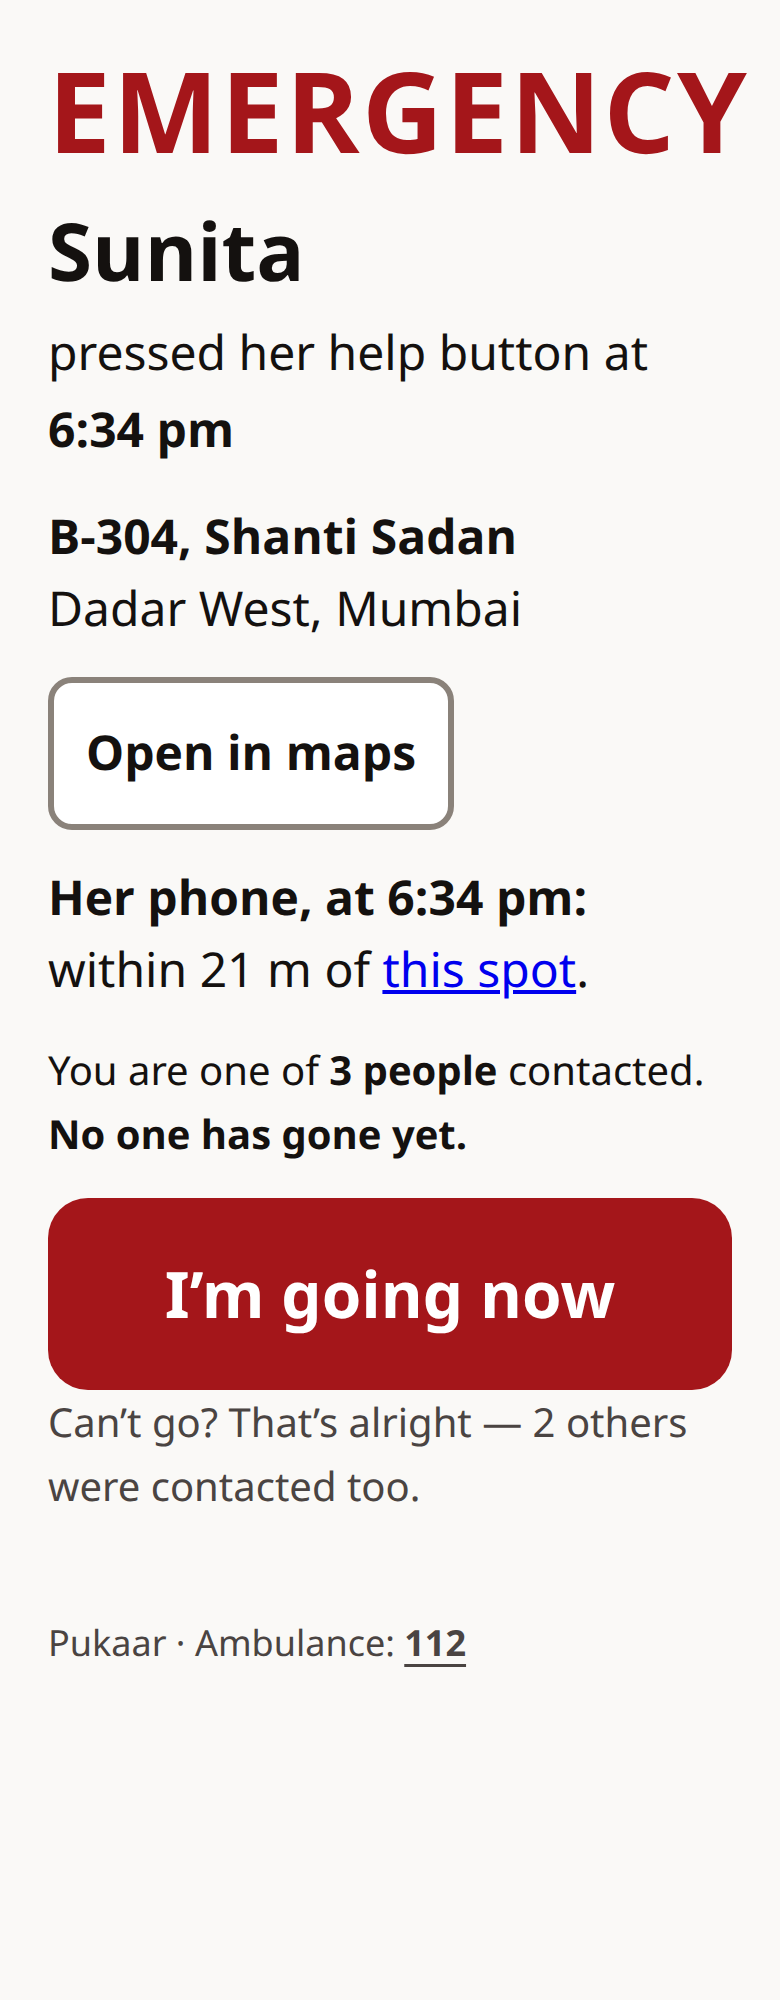
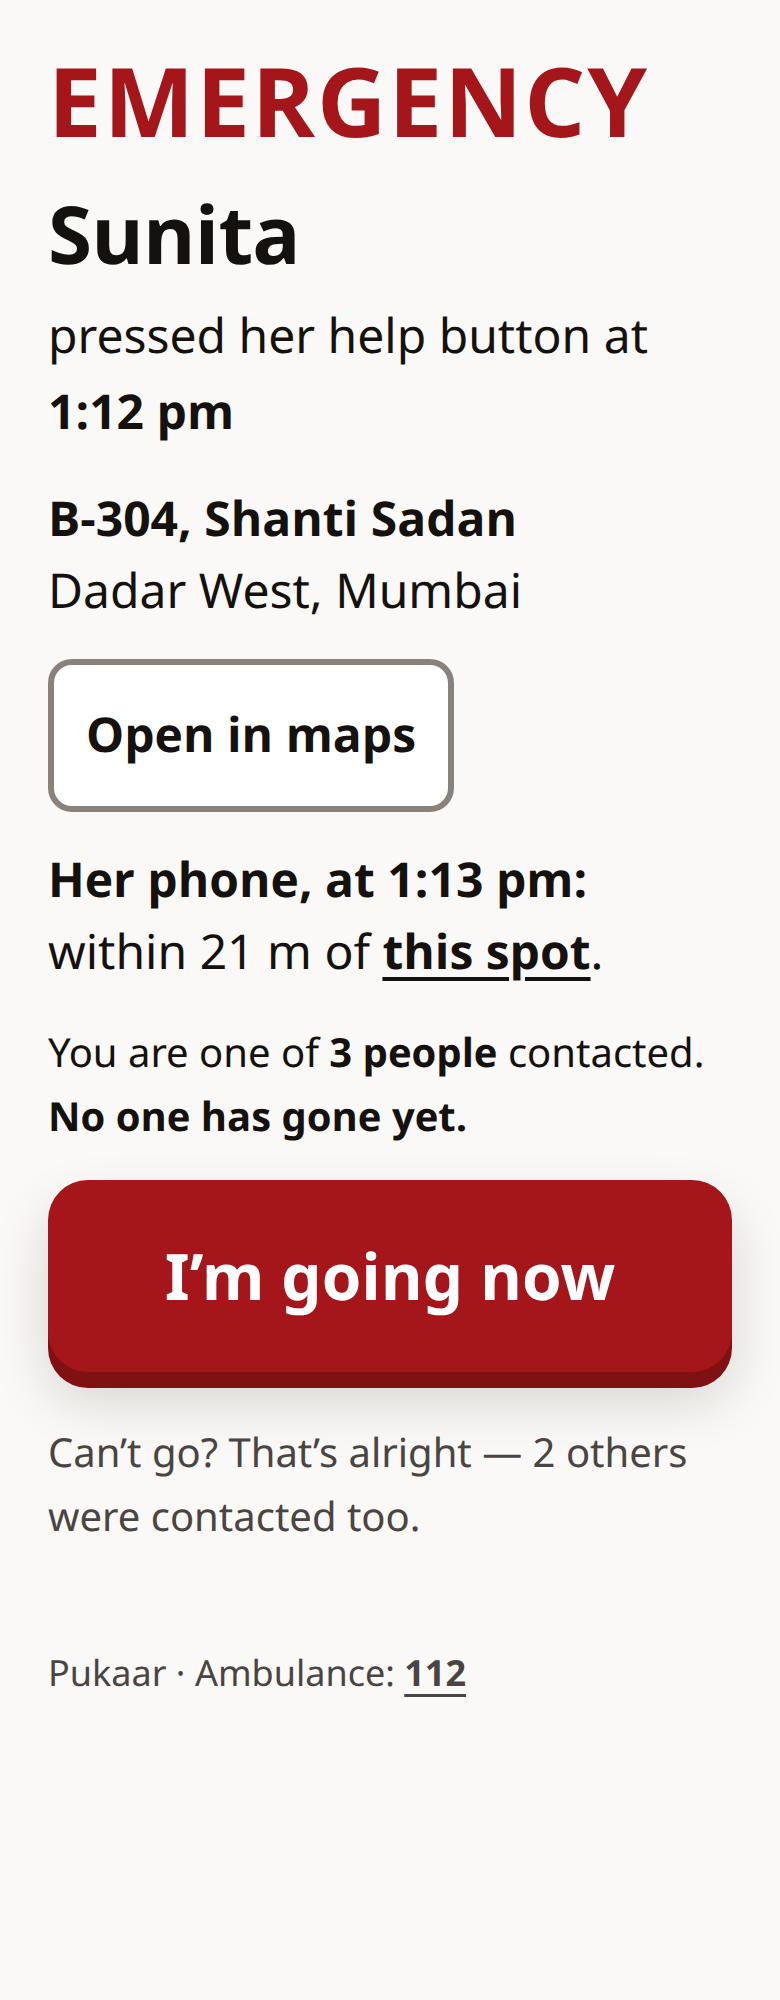
The pages, a design pass: the button has an edge and goes down, a breathing dot while she waits, the timeline is a rail, links look like the page; thirteen screens re-taken from real alerts; rule 11

diff --git a/lambdas/web.py b/lambdas/web.py
@@ -813,7 +813,8 @@ STYLE = """
   --emergency: #A4161A; --on-emergency: #FFFFFF; --emergency-active: #7F1113;
   --safe: #14532D; --safe-bg: #E4F2E8; --caution: #7A4106; --caution-bg: #FDF1E0; --over: #55504D;
   --text-xs: 16px; --text-sm: 18px; --text-base: 20px; --text-lg: 24px; --text-xl: 32px;
-  --text-2xl: 40px; --text-3xl: 56px; --text-action: 44px;
+  --text-2xl: 40px; --text-3xl: 48px; --text-action: 44px;
+  --edge: 8px; --shadow: 0 14px 28px rgba(20, 17, 15, 0.16);
   --space-3: 12px; --space-4: 16px; --space-6: 24px; --space-8: 32px; --space-12: 48px;
   --radius: 12px; --radius-btn: 20px; --target-min: 64px;
 }
@@ -824,7 +825,7 @@ html { background: var(--bg); color: var(--ink); color-scheme: only light;
   font-size: var(--text-base); line-height: 1.6; }
 body { margin: 0; padding: var(--space-6); max-width: 36rem; margin-inline: auto; }
 @media (max-width: 360px) { body { padding: var(--space-4); } }
-h1 { font-size: var(--text-2xl); line-height: 1.2; font-weight: 700; margin: 0 0 var(--space-6); }
+h1 { font-size: var(--text-2xl); line-height: 1.2; font-weight: 700; letter-spacing: -0.01em; margin: 0 0 var(--space-6); }
 h2 { font-size: var(--text-xl); line-height: 1.3; font-weight: 700; margin: 0 0 var(--space-4); }
 h1, h2 { text-wrap: balance; }
 #sent h1 { font-size: var(--text-xl); }
@@ -834,14 +835,18 @@ p { margin: 0 0 var(--space-4); }
 .btn { display: block; width: 100%; min-height: var(--target-min); border: 0; cursor: pointer;
   font: inherit; font-weight: 700; border-radius: var(--radius); padding: var(--space-4); }
 .btn:focus-visible { outline: 4px solid var(--ink); outline-offset: 3px; }
-.btn-emergency { min-height: 240px; font-size: var(--text-action); line-height: 1.15;
+.btn-emergency { min-height: max(240px, 36vh); font-size: var(--text-action); line-height: 1.15;
   letter-spacing: 0.02em; text-transform: uppercase; border-radius: var(--radius-btn);
-  background: var(--emergency); color: var(--on-emergency); }
-.btn-emergency:active { background: var(--emergency-active); transform: scale(0.985); }
-.btn:active { transform: scale(0.985); }
-.btn-emergency[disabled] { background: var(--border); cursor: not-allowed; }
+  background: var(--emergency); color: var(--on-emergency);
+  box-shadow: 0 var(--edge) 0 var(--emergency-active), var(--shadow); }
+/* The button has an edge, like a thing that can be pressed: the finger sees it go down. */
+.btn-emergency:active, .btn-safe:active { transform: translateY(var(--edge)); box-shadow: 0 0 0 var(--emergency-active), 0 4px 10px rgba(20, 17, 15, 0.16); }
+.btn-emergency:active { background: var(--emergency-active); }
+.btn { transition: transform 0.06s ease-out, box-shadow 0.06s ease-out; }
+.btn-secondary:active { transform: translateY(2px); }
+.btn-emergency[disabled] { background: var(--border); box-shadow: none; cursor: not-allowed; }
 main a.btn-emergency { display: flex; align-items: center; justify-content: center; text-align: center;
-  text-decoration: none; color: var(--on-emergency); min-height: 240px; line-height: 1.15; padding: var(--space-4); margin: 0; }  /* the tel: rule below would shrink and recolour it */
+  text-decoration: none; color: var(--on-emergency); min-height: max(240px, 36vh); line-height: 1.15; padding: var(--space-4); margin: 0; }  /* the tel: rule below would shrink and recolour it */
 .btn-secondary[disabled] { color: var(--ink-muted); cursor: not-allowed; }
 @media (hover: hover) {
   .btn-emergency:hover:not([disabled]) { background: var(--emergency-active); }
@@ -855,18 +860,24 @@ main a.btn-emergency { display: flex; align-items: center; justify-content: cent
 .card-emergency { background: var(--surface); border: 3px solid var(--emergency); color: var(--emergency); }
 .banner { font-size: var(--text-3xl); line-height: 1.1; font-weight: 700; letter-spacing: 0.02em;
   color: var(--emergency); margin: 0 0 var(--space-4); }
-.timeline { list-style: none; padding: 0; margin: 0; }
-.timeline li { display: grid; grid-template-columns: 7.5rem 1fr; gap: var(--space-4); padding: var(--space-3) 0;
-  border-top: 2px solid var(--border); font-size: var(--text-lg); line-height: 1.4; }
+.timeline { list-style: none; padding: 0 0 0 28px; margin: 0; position: relative; }
+.timeline::before { content: ""; position: absolute; left: 7px; top: 12px; bottom: 12px; width: 3px; border-radius: 2px; background: var(--border); }
+.timeline li { display: grid; grid-template-columns: 7.5rem 1fr; gap: var(--space-4); padding: var(--space-3) 0; position: relative;
+  border-top: 1px solid #E6E1DC; font-size: var(--text-lg); line-height: 1.4; }
+.timeline li:first-child { border-top: 0; }
+.timeline li::before { content: ""; position: absolute; left: -27px; top: 19px; width: 15px; height: 15px; border-radius: 50%;
+  background: var(--surface); border: 3px solid var(--border); }
+.timeline li:last-child::before { background: var(--border); }
+@media (max-width: 480px) { .timeline li { grid-template-columns: 1fr; gap: 2px; } .timeline time { font-size: var(--text-sm); } }
 .timeline time { color: var(--ink-muted); font-variant-numeric: tabular-nums; white-space: nowrap; }
 .banner-calm { color: var(--safe); }
-.btn-safe { background: var(--safe); color: #FFFFFF; border-radius: var(--radius-btn); }
-.btn-safe:active { background: #0F3D21; }
+.btn-safe { background: var(--safe); color: #FFFFFF; border-radius: var(--radius-btn); box-shadow: 0 var(--edge) 0 #0F3D21, var(--shadow); }
+.btn-safe:active { background: #0F3D21; box-shadow: 0 0 0 #0F3D21, 0 4px 10px rgba(20, 17, 15, 0.16); }
 .lead { font-size: var(--text-lg); margin-top: calc(-1 * var(--space-4)); }
 .address { font-size: var(--text-lg); line-height: 1.5; }
 .btn-inline { display: inline-block; width: auto; min-width: var(--target-min); margin-top: 0; text-decoration: none;
   text-align: center; }
-.btn-claim { min-height: 96px; font-size: var(--text-xl); text-transform: none; letter-spacing: 0; }
+.btn-claim { min-height: 96px; font-size: var(--text-xl); text-transform: none; letter-spacing: 0; margin-top: var(--space-4); margin-bottom: var(--space-6); }
 .card h1 { font-size: var(--text-xl); margin-bottom: var(--space-3); }
 .card p { margin: 0; }
 .card-over { background: var(--surface); border: 3px solid var(--border); color: var(--over); }
@@ -876,7 +887,15 @@ hr { border: 0; border-top: 2px solid var(--border); margin: var(--space-6) 0; }
 a[href^="tel:"] { color: inherit; display: inline-block; min-height: 48px; line-height: 48px; padding: 0 var(--space-3);
   margin: -14px calc(-1 * var(--space-3)); font-weight: 700; text-underline-offset: 4px; }
 a:focus-visible { outline: 4px solid var(--ink); outline-offset: 3px; border-radius: 6px; }
-.langbar { text-align: right; margin: 0 0 var(--space-4); }
+main a:not(.btn) { color: var(--ink); font-weight: 700; text-decoration-thickness: 2px; text-underline-offset: 4px; }
+.langbar { display: flex; justify-content: space-between; align-items: center; gap: var(--space-4); margin: 0 0 var(--space-4); }
+.brand { font-size: var(--text-sm); font-weight: 700; letter-spacing: 0.12em; text-transform: uppercase; color: var(--ink-muted); margin: 0; }
+.waiting { display: flex; align-items: center; gap: var(--space-3); }
+.pulse { flex: none; width: 14px; height: 14px; border-radius: 50%; background: var(--emergency); animation: pulse 2s ease-in-out infinite; }
+@keyframes pulse { 0%, 100% { transform: scale(1); opacity: 1; } 50% { transform: scale(0.6); opacity: 0.45; } }
+main { animation: arrive 0.3s ease-out; }
+@keyframes arrive { from { opacity: 0; transform: translateY(8px); } to { opacity: 1; transform: none; } }
+@media (prefers-reduced-motion: reduce) { .pulse, main { animation: none; } .btn { transition: none; } }
 .btn-lang { min-height: 48px; padding: 0 var(--space-4); border-radius: 999px; cursor: pointer;
   background: var(--surface); color: var(--ink); border: 2px solid var(--border); font: inherit;
   font-size: var(--text-sm); font-weight: 700; }
@@ -900,20 +919,20 @@ PAGE = Template("""<!doctype html>
 </head>
 <body>
 <div class="sr-only" aria-live="assertive" id="announce"></div>
-<header><p class="langbar"><button class="btn-lang" id="lang" lang="mr">मराठी</button></p></header>
+<header><p class="langbar"><span class="brand" lang="en">Pukaar</span><button class="btn-lang" id="lang" lang="mr">मराठी</button></p></header>
 
 <main id="idle">
   <h1 data-i18n="idle_h1">I NEED HELP</h1>
   <button class="btn btn-emergency" id="press" data-i18n="press" $disabled>I need help</button>
   <p style="margin-top: var(--space-6)"><span data-i18n="press_once">Press once.</span><br><span id="told">$told</span></p>
-  <p class="langbar" style="text-align:left"><button class="btn-lang" id="allow-location" data-i18n="location" hidden>Let helpers see where you are</button></p>
+  <p class="langbar" style="justify-content:flex-start"><button class="btn-lang" id="allow-location" data-i18n="location" hidden>Let helpers see where you are</button></p>
 </main>
 
 <main id="sent" hidden>
   <h1 data-i18n="sent_h1">Help is being called</h1>
   <p id="sent-back" hidden></p>
   <p><span id="sent-names"></span><br><span class="time" id="sent-time"></span></p>
-  <p class="muted" data-i18n="waiting">Waiting for one of them to answer…</p>
+  <p class="muted waiting"><span class="pulse" aria-hidden="true"></span><span data-i18n="waiting">Waiting for one of them to answer…</span></p>
   <button class="btn btn-secondary" id="cancel" data-i18n="cancel">Cancel — I’m OK</button>
 </main>
 
@@ -1110,7 +1129,7 @@ PAGE = Template("""<!doctype html>
 def _page(title, body):
     return ("""<!doctype html><html lang="en"><head><meta charset="utf-8">
 <meta name="viewport" content="width=device-width, initial-scale=1"><meta name="robots" content="noindex">
-<meta name="color-scheme" content="only light">
+<meta name="color-scheme" content="only light"><meta name="theme-color" content="#FAF9F7">
 <link rel="icon" href="/icon-192.png" type="image/png">
 <title>""" + title + """</title><style>""" + STYLE + """</style></head><body>
 <main>

diff --git a/README.md b/README.md
@@ -81,22 +81,23 @@ Pukaar replaces the sequence with a fan-out. One press pages the three people mo
   <sub><b>One alert, in order.</b> Every line a row this system wrote, nothing inferred.</sub>
 </p>
 
-*All from real alerts on the live stack, 18–19 Sep.*
+*All thirteen from real alerts on the live stack, 19 Sep 13:05–13:14 — two presses, one claimed, released and cancelled, one nobody answered — taken the way she and they would open the pages.*
 
 ### Design — the rules the screens follow
 
-1. **One button, 240 px tall, its words 44 px capitals.** Her thumb finds it without aiming, and the press is felt before the network answers: the button gives under the finger and the phone buzzes once (200 ms, where it can), then the words change to *Calling for help…*. The only other controls she ever sees are Cancel, the language pill, 112 and — once — the location question.
+1. **One button, at least 240 px tall — a third of the screen on a phone — its words 44 px capitals.** Her thumb finds it without aiming. It has an edge, like a thing that can be pressed: on the press it goes down 8 px, the phone buzzes once (200 ms, where it can), and the words change to *Calling for help…* — all before the network answers. The only other controls she ever sees are Cancel, the language pill, 112 and — once — the location question.
 2. **20 px body text, 40 px headings, line height 1.6** — set for eyes in their seventies. The timeline's rows are 24 px; nothing on any page is smaller than 16 px.
 3. **Every colour pair passes 7:1** — the AAA line, not AA's 4.5; the lowest is 7.3:1 (the caution text on its card), white on the red button is 7.8:1. Red means emergency, green means someone is coming, amber means it was called off — the same three meanings on every page.
 4. **Every state says who.** *Vaishali, Ravi and Anil will be told* before the press; *Ravi is coming* after it; *Ravi can't come after all — Meena, Prakash and Sunil have been told*. Never "your contacts", never a count alone.
 5. **First person, in the words the person would say.** *I need help. I'm going now. I can't go after all. Cancel — I'm OK. I'd be reachable now.*
 6. **Nothing to learn.** No icons but a tick and a warning sign; no menus, no settings, no sign-in. The one question her page ever asks — may helpers see where you are — is asked once, and the answer sticks.
 7. **Her language, and her phone's voice.** The pill switches between English and hers and the phone remembers; every state after the press is read aloud where the phone has a voice for her language, so she does not have to read at all.
-8. **Targets: 64 px for every button, 96 px for *I'm going now*, 48 px for the pill and every 112 link.** A 4 px focus ring for anyone on a keyboard; header, main and footer landmarks on every page; the timeline adds its new lines in place while the alert is open instead of reloading, so a screen reader is not thrown back to the top every five seconds. axe-core 4.10.2 with every rule set it has, best-practice included: no violations on her page in all six states, the alert, *You're going*, *already on the way*, *cancelled*, the check-in, the leave page, the timeline and the 404 (19 Sep).
+8. **Targets: 64 px for every button, 96 px for *I'm going now*, 48 px for the pill and every 112 link.** A 4 px focus ring for anyone on a keyboard; header, main and footer landmarks on every page; the timeline adds its new lines in place while the alert is open instead of reloading, so a screen reader is not thrown back to the top every five seconds. axe-core 4.10.2 with every rule set it has, best-practice included: no violations on her page in all six states, the alert, *You're going*, *already on the way*, *cancelled*, the check-in, the leave page, the timeline and the 404 (19 Sep; her page's six states and the timeline run again after the last change, 13:20, still none).
 9. **112 at the foot of every page.** The button is not a promise, and the page says so.
 10. **One column, 720 px at most, light only.** The same page on a phone, a laptop and a shared screen, and the same at three in the morning.
+11. **Motion only where it carries meaning, and none if the phone asks for none.** A red dot breathes beside *Waiting for one of them to answer* so she knows the page is alive; a new state arrives with a 0.3 s rise; the button goes down in 60 ms. `prefers-reduced-motion` turns all three off. Nothing spins, nothing slides in from the side, nothing loops for decoration.
 
-Measured (19 Sep): Lighthouse 12.8, mobile, on her page and on the timeline page of two closed alerts — performance 100, accessibility 100, best practices 100 on each; SEO 50 on purpose (`noindex`, no description: none of these pages is for search). The page is 40 KB of eleven languages, styles and script and is served gzipped, 11 KB, to any browser that accepts it — she may be opening it on one bar of signal.
+Measured (19 Sep, after the last change to the pages): Lighthouse 12.8, mobile, on her page and on the timeline page — performance 100, accessibility 100, best practices 100 on each; SEO 50 on purpose (`noindex`, no description: none of these pages is for search). The page is 40 KB of eleven languages, styles and script and is served gzipped, 11 KB, to any browser that accepts it — she may be opening it on one bar of signal.
 
 ### Correctness properties, stated
 
